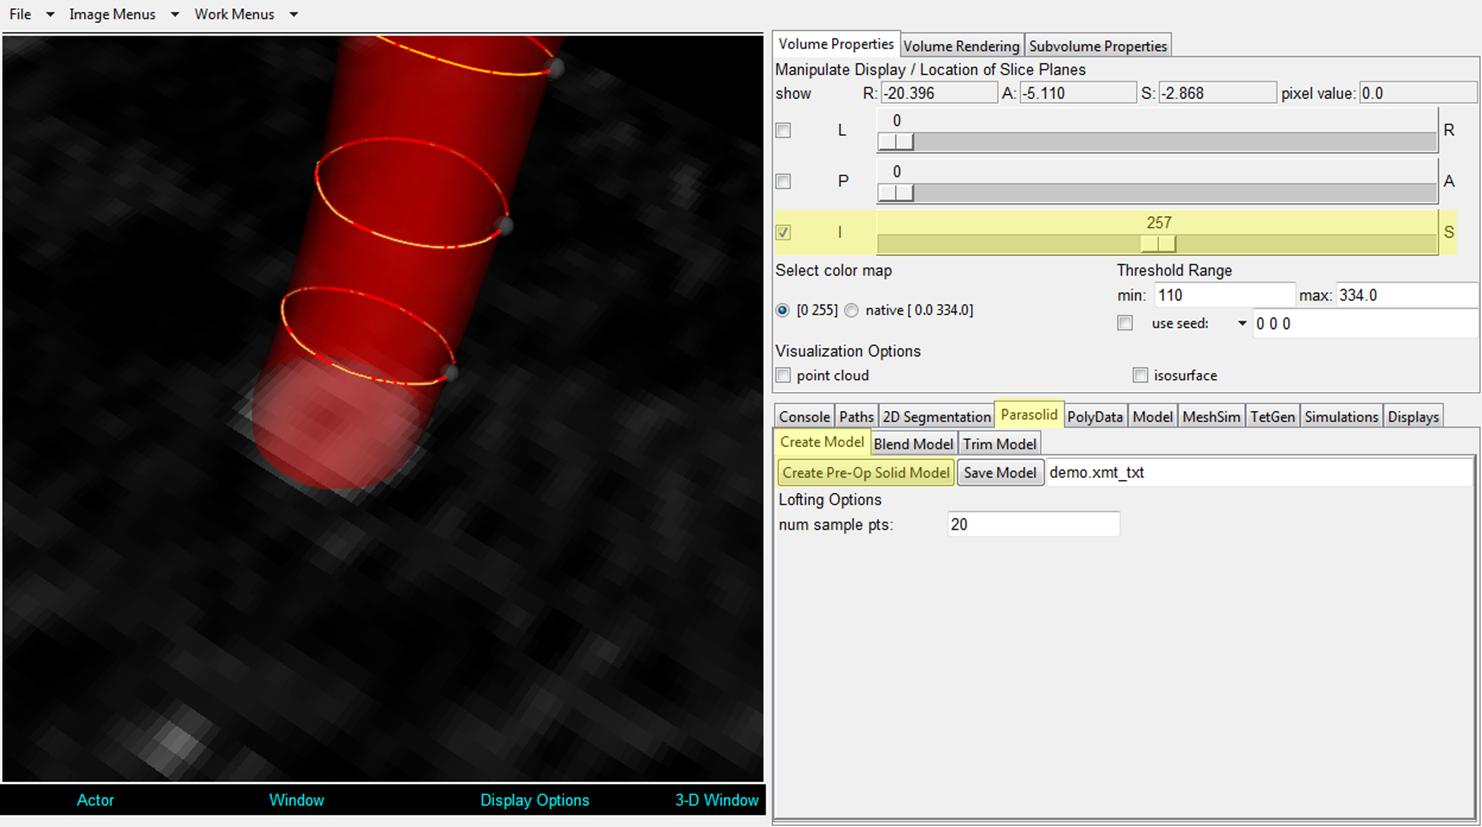
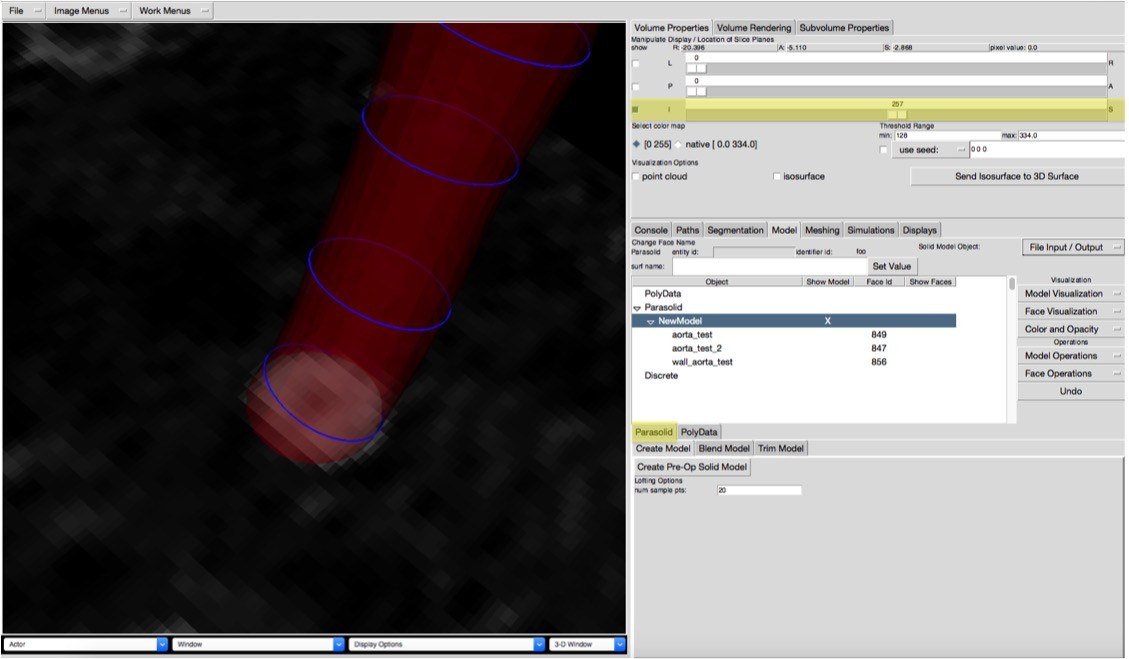
more changes to figures and test in solid modeling section

diff --git a/source/documentation/modeling/_creatingModels.md b/source/documentation/modeling/_creatingModels.md
@@ -13,7 +13,9 @@ Then, under the “2D Segmentation” tab:
 
 Highlight “aorta\_test” in the group treeview display window. Next to the group treeview display window, click on the “Model Operations → Use Surface” button under “Operations” on the right hand side of the screen. After this button is pressed, you should see a “X” appear in the column “Use in Model” next to “aorta\_test” in the group treeview window. This indicates that you would like to loft a 3D solid from the group “aorta_test”.
 
-Under the “Model → Parasolid → Create Model” tab, click on the “Create Pre-Op Solid Model” button. A window will appear asking you to name your new model. Name your model "NewModel" and then click "Enter". Another window will appear asking you if you would like to “Recreate all solids”. Click on the “Yes” button. Another window appears asking if you would like to “Create missing solids using defaults.” Click on the “Yes” button. 
+<font color="red">**HELPFUL HINT:** </font> You can only use Parasolid to generate a model if you have paid for a Parasolid license and have the licensed portion of the software. If you do, you can activate the Parasolid tab by going to the "Work Menus" selection in the upper left hand of your screen and selecting Parasolid. 
+
+Under the “Model → Parasolid → Create Model” tab, click on the “Create Pre-Op Solid Model” button. A window will appear asking you to name your new model. Name your model "NewModel" and then click "Enter". You may not give a blank name, a name containing ".", or a name containing "/". Another window will appear asking you if you would like to “Recreate all solids”. Click on the “Yes” button. Another window appears asking if you would like to “Create missing solids using defaults.” Click on the “Yes” button. 
 
 <figure>
   <img class="svImg svImgXl"  src="documentation/modeling/imgs/solid_modeling/creating_models/2.jpg"> 
@@ -29,7 +31,7 @@ In addition, the name of the solid will appear underneath Parasolid in the dropd
   <figcaption class="svCaption" ></figcaption>
 </figure>
 
-The “num sample pts” under “Lofting Options” describes how many sample points around each segmentation are used to connect one contour to the adjacent contour. You can imagine that using fewer sample points creates a more smooth model, but one that may not adhere as well to the 2D segmentations. You are encouraged to play around with the option. Change the value in “num sample pts” and click on the “Create Pre-Op Solid Model” button to see how it affects the solid.
+The “num sample pts” under “Segmentation → Lofting Parameters” describes how many sample points around each segmentation are used to connect one contour to the adjacent contour. You can imagine that using fewer sample points creates a more smooth model, but one that may not adhere as well to the 2D segmentations. You are encouraged to play around with the option. Change the value in “num sample pts” and click on the “Create Pre-Op Solid Model” button to see how it affects the solid.
 
 Now, let’s examine the solid in more detail. Click your mouse in the 3D display window and click on the semi-transparent solid model. If you type “p” on the keyboard, the model should now become opaque yellow and easier to visualize. If you would like to change the opacity of the lofted solid (optional), “pick” the 3D solid, which turns it opaque and yellow, and go to the “Visualization” portion on the right hand side of the screen. Click “Color and Opacity → Change Selected Opacity” and choose a desired opacity. Use this same button and click "Change Selected Color" to change the color of the model. 
 
@@ -40,7 +42,7 @@ Now, let’s examine the solid in more detail. Click your mouse in the 3D displa
 
 Whether or not you have decided to make your solid model opaque by changing its actor properties, zoom in and examine the features of your model. In our example model, we can see that we have a segmentation that creates a bump in the vessel, most likely because there is a branch coming off at that point.
 
-Let’s try to fix the model by deleting the segmentation and re-lofting it. To delete the segmentation, navigate back to the “2D Segmentation” tab. Clear the 3D display window by clicking on the “Actor” drop-down menu and selecting “Delete All Actors”.
+Let’s try to fix the model by deleting the segmentation and re-lofting it. First, hide your lofted model by going to the "Model Visualization → Do Not Display Model". To delete the segmentation, navigate back to the “Segmentation → 2D Segmentation” tab.
 
 In the group treeview display window, highlight the group “aorta_test”. To the right of the treeview display window, under “Visualization”, click on the “Display Groups” button. A new window will open, asking you to select a color to display your group in. We have selected bright green:
 
@@ -58,13 +60,13 @@ Right away we can see which segmentation was problematic. Pick this segmentation
 
 To delete this segmentation, simply click the “Delete Members” button located to the right of the group treeview display, under the heading “Member Operations”.
 
-If you clear the 3D display window by going to “Actor → Delete All Actors” and the re-display the group by clicking on the “Display Groups” button to the right of the group treeview display window (under the “Visualization” heading), you should see that the segmentation that you just deleted is now missing. Its corresponding pathpoint should also be missing from your group treeview display window.
+If you clear the 3D display window by going to “Group Visualization → Do Not Display Group” and the re-display the group by clicking on the “Group Visualization → Display Groups” button, you should see that the segmentation that you just deleted is now missing. Its corresponding pathpoint should also be missing from your group treeview display window.
 
 We will now re-loft the model again. Click on the “aorta\_test” group in the treeview window and then click on the “Use Groups” button under the “Solid Model Lofting” header that is to the right of the treeview window. Again you should see the word, “YES” next to the “aorta_test” group name in the treeview window. 
 
 <font color="red">**HELPFUL HINT:** </font> You will have to select the group for lofting by clicking the “Use Group” button and re-loft the model every time you make modifications to the group. 
 
-Now, re-loft the model by clicking on the “Create Pre-Op Solid Model” button under the “Create Model” tab. Did deleting the segmentation help? You can use the Display Options pane to turn on visualization options that will help you judge the fidelity of your solid model. For example, try turning on the “S/I” slider bar and running up and down the 3D solid. How well does it represent the imaging data? You can see that this is one time when it is useful to leave the lofted vessel in a semi-transparent state:
+Now, re-loft the model by clicking on the “Create Pre-Op Solid Model” button under the “Model → Parasolid → Create Model” tab. Did deleting the segmentation help? You can use the Display Options pane to turn on visualization options that will help you judge the fidelity of your solid model. For example, try turning on the “S/I” slider bar and running up and down the 3D solid. How well does it represent the imaging data? You can see that this is one time when it is useful to leave the lofted vessel in a semi-transparent state:
 
 <figure>
   <img class="svImg svImgXl"  src="documentation/modeling/imgs/solid_modeling/creating_models/6.jpg"> 
@@ -86,7 +88,7 @@ In the Functional Toolbox pane, click on the “Displays” tab and then click o
 
 Type in “0.1” in the place of “1.0” and hit RETURN.
 
-Now, return to the “Model → Parasolid → Create Model” tabs in your Functional Toolbox. With your solid model “picked” (opaque yellow), under visualization on the right hand side, click "Model Operations → Copy Model". Give a name for your new model. This will display the model with smaller faces and give you a smoother looking surface. You should see that the creases have disappeared:
+With your solid model “picked” (opaque yellow), under visualization on the right hand side, click "Model Operations → Copy Model". Give a name for your new visualized model. Now, every time a Parasolid object is displayed on screen, it will be created with facet sizes with a maximum of 0.1 units. This will display the model with smaller faces and give you a smoother looking surface. You should see that the creases have disappeared:
 
 <figure>
   <img class="svImg svImgXl"  src="documentation/modeling/imgs/solid_modeling/creating_models/8.jpg"> 
@@ -112,4 +114,4 @@ Here are a few suggestions for fixing common problems:
 
 This is because the segmentations in this region are close together and not quite the same size. For small vessels, small differences in the level set segmentations can translate to big differences in area. Consider fixing this problem by either removing segmentations or copying and pasting a single contour down the length of the branch vessel. Copying and pasting a single contour is really only appropriate in the branch vessels, which are relatively far from the region of interest. This methodology may be justified using the shear stress autoregulation theory, which states that vessels will adjust their size to maintain relatively constant levels of shear stress. Thus, as long the flow remains constant along a given small segment of vessel, the vessel should remain about the same diameter for the given small segment. The exception, of course, is if the branch vessels have disease such as atherosclerosis or aneurysm. 
 
-When you are happy with the solid model you have created, don’t forget to “Save Groups” in the File menu.
+When you are happy with the solid model you have created, don’t forget to “Save Groups” in the File menu. Also save your model with "File Input/Outpu → Save Model".

diff --git a/source/documentation/modeling/_creatingModelsPolyData.md b/source/documentation/modeling/_creatingModelsPolyData.md
@@ -14,7 +14,7 @@ Navigate to the “Segmentation” tab in the functional toolbox. Under the Oper
 </figure>
 
 Now navigate to the "Model → PolyData → Create Model" and click the button called "Create Pre-Op Solid Model".
-A window will pop up asking what you would like to create a model. Name your model and click "Enter".
+A window will pop up asking what you would like to create a model. Name your model and click "Enter". You may not give a blank name, a name containing ".", or a name containing "/".
 
 <figure>
   <img class="svImg svImgXl"  src="documentation/modeling/imgs/polyData/creating_models/namingNewModel.jpg"> 

diff --git a/source/documentation/userguide/_polydata.md b/source/documentation/userguide/_polydata.md
@@ -50,7 +50,7 @@ Now we need to give them more meaningful names. Go to the tab Model. All the fac
   <figcaption class="svCaption" ></figcaption>
 </figure>
 
-Now the inlet face name is changde to *inflow_aorta* in the list. Similarly, we change the names of the two outlet faces and the wall. As we changed the face names, we need to save the model again.
+Now the inlet face name is changed to *inflow_aorta* in the list. Similarly, we change the names of the two outlet faces and the wall. As we changed the face names, we need to save the model again.
 
 	File Input/Output → Save Model
 	Save to the file demo.vtp
